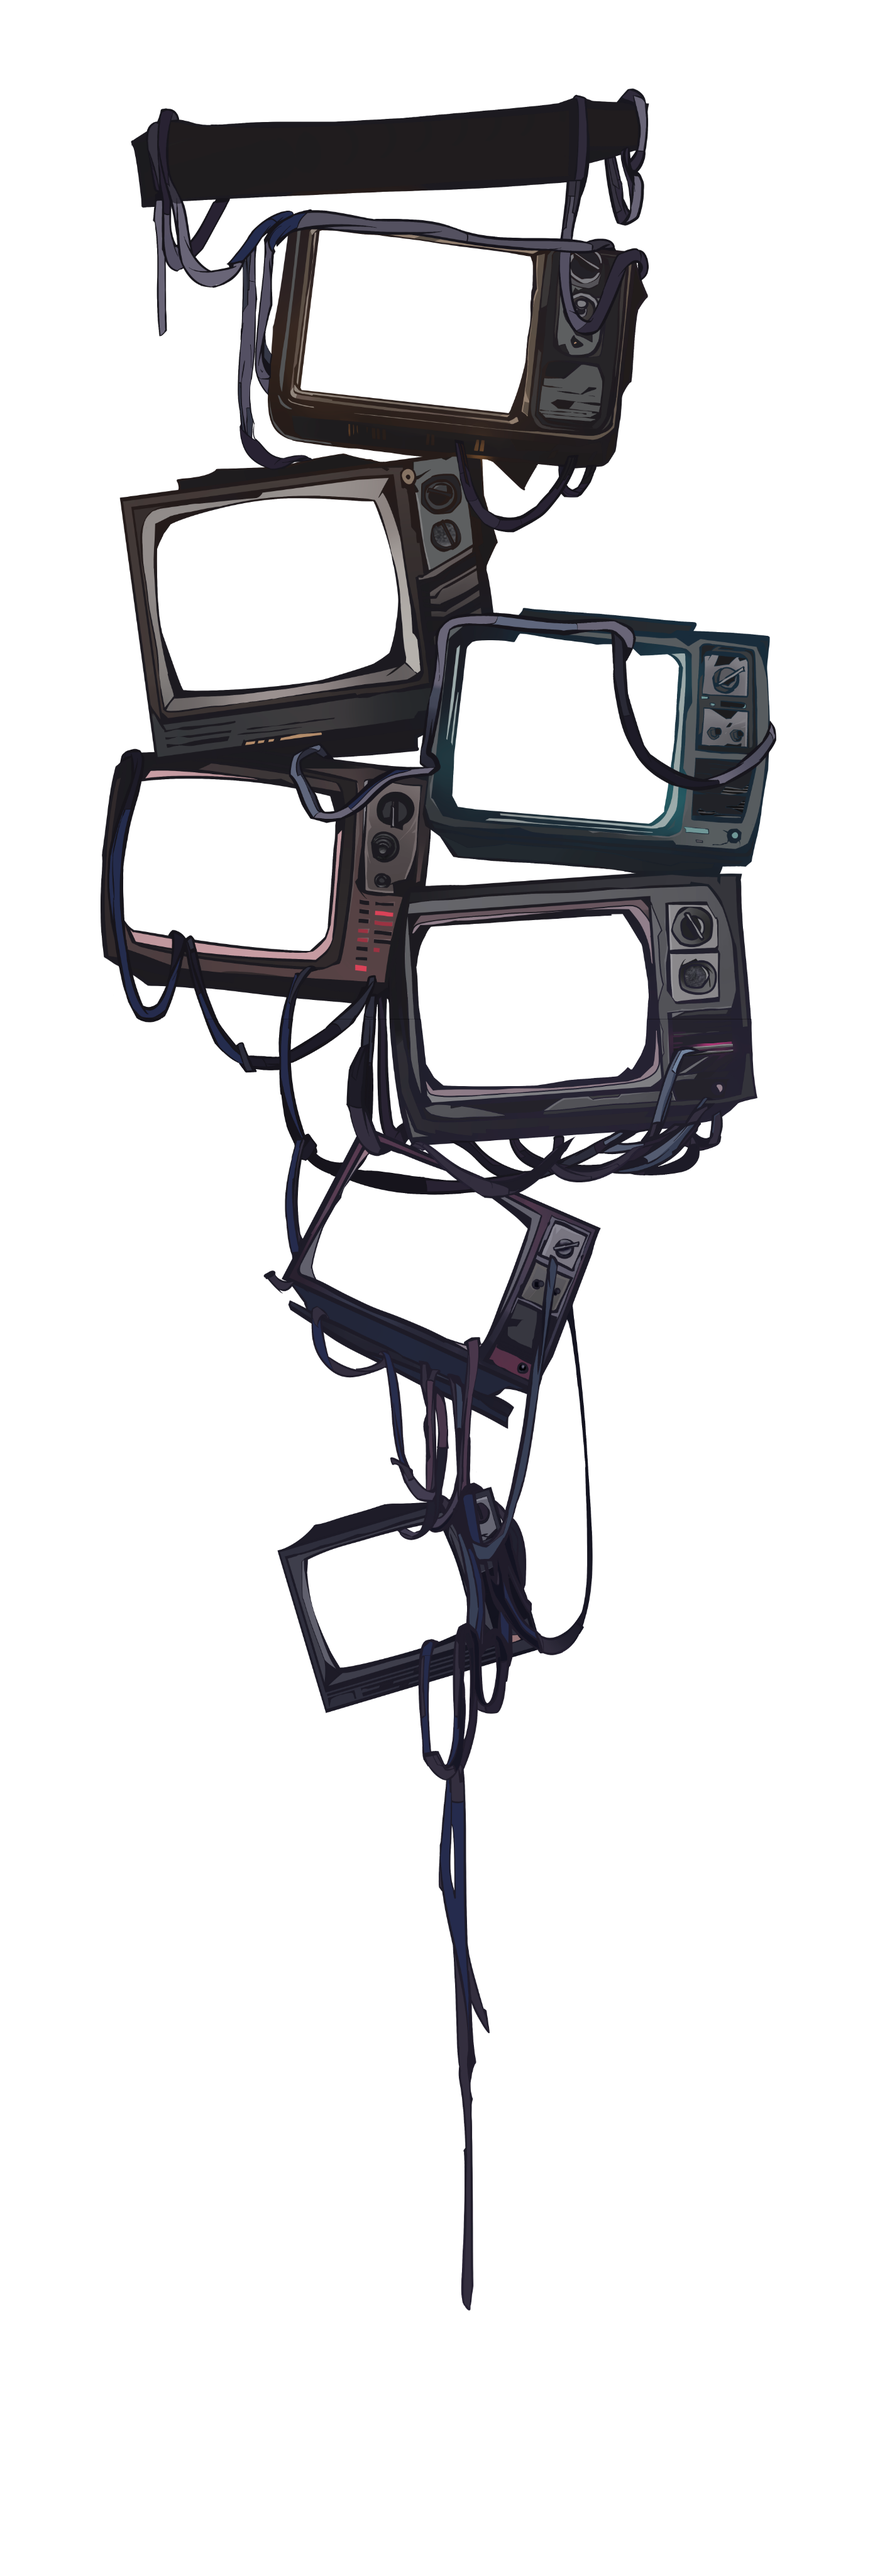
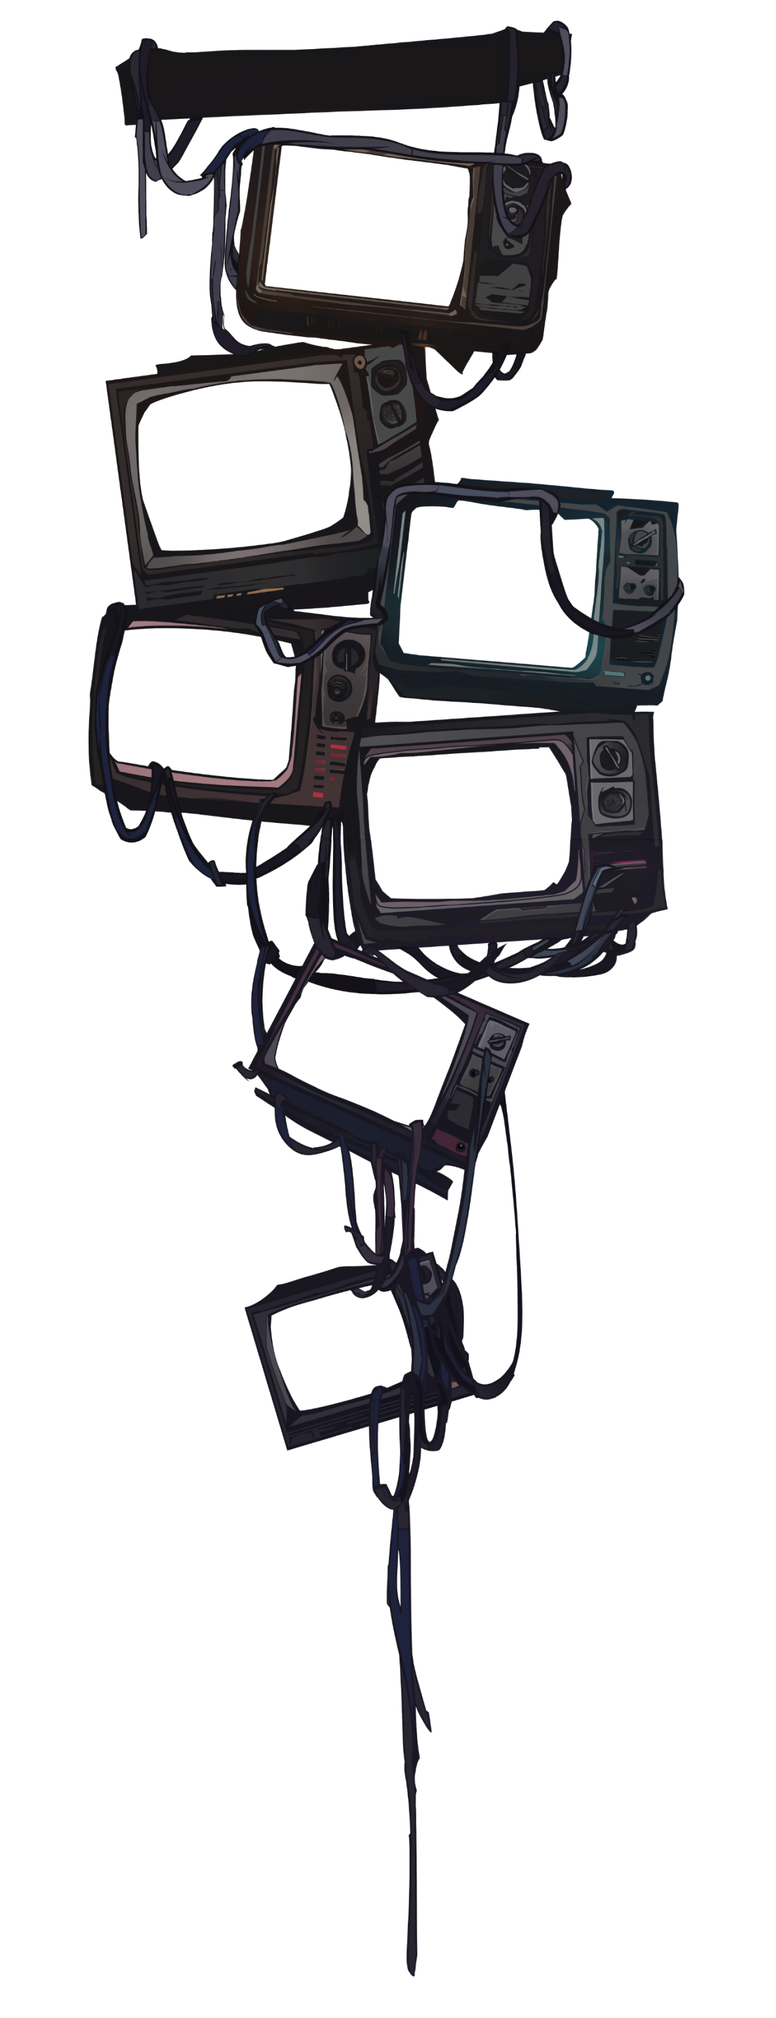
parka

Changed region(s): [[0.0923, 0.0, 0.8923, 0.9969]]

diff --git a/index.html b/index.html
@@ -353,7 +353,7 @@
             <img class="television_feature_six" src="img/television/1.png" alt="">
             <img class="television_feature_seven" src="img/television/1.png" alt="">
 
-            <img class="television_feature_name" src="img/television/heart.svg" alt="">
+            <img class="television_feature_name" src="img/television/GarageNeon.gif" alt="">
 
             <img class="television_feature_main" src="img/television/tele.png" alt="">
 
@@ -402,10 +402,32 @@
 
                   <div class="blog_content_item_content_text">
                     <div class="blog_content_item_content_text_visible">
-                      <p>Starting up as Indie Devs is scary business, and we never thought when we started Gripper we’d have the support of @EpicGames</p>
+                      <p>Game Development Progress</p>
                     </div>
                     <div class="blog_content_item_content_text_hidden">
-                      <p>Lorem ipsum dolor sit amet consectetur adipisicing elit. Odio ipsa facere necessitatibus, quidem tenetur dolor animi repellat commodi deserunt veniam rem magnam asperiores debitis aperiam natus, deleniti blanditiis doloremque porro! Maiores, blanditiis consequuntur temporibus rem voluptas quo totam dolore, cupiditate dolorem atque enim similique, nihil iure illo odit officia provident velit et? Doloremque magnam a cum ipsum praesentium accusamus architecto numquam officiis veniam, vitae error, necessitatibus, dolorum voluptas corrupti culpa quod eveniet laborum tempora. Veniam, quibusdam? At, repellendus deleniti? Tempore quod error eos ratione libero molestiae, adipisci beatae consequuntur iure aliquid harum, distinctio perspiciatis ex? Voluptatem ut saepe unde illo!</p>
+                      <p>Lots of headway has been made within the team, with some exciting updates. Some I can share now, some you’ll have to wait and see!</p>
+                      <p>We’ve been busy making sure we have the bare bones of all the arenas and tunnels, so later on we can focus on polish and making them all shiny. This has included making sure all the decorative objects are added, as well as interactable ones. VFX, lighting and shading has also been added, with textures being played around with and voted on within the team’s Discord server.</p>
+                      <p>Making sure there’s collision has also been on the task list, as we don’t want players riding through objects that are meant to be a challenge to navigate. Within the tunnels we had placeholder objects that had yet to be sculpted, but progress has been made turning our flying rectangles into threatening daggers. Check out the before and after video on Twitter: https://twitter.com/Gripper_action/status/1565757698242740230?s=20&t=nEzk1LaSH-iyVXnEscjfZQ</p>
+                      <img src="img/steam/1.png" alt="">
+                      <p>Physics has also been a topic of discussion, with ideas circulating around interactions between different elements (such as heat evaporating water). It’s too early to definitively say if this will make it into the final build, but we’re all about creating the best environments and atmosphere’s we can - only time will tell!</p>
+                      <img src="img/steam/2.png" alt="">
+                      <p>Boss concept art has been created so the team has a reference for the final boss models. These models have also been created for the most part, and are being added into their arena’s. We’ve been starting to animate models to ensure they don’t look stiff and clunky, with the main protagonist seeing some improvements. In the words of one of our artists,</p>
+                      <p>“None became the proud owner of controlled knees and elbows”.</p>
+                      <p>Movement and combat design are all in the works, to try and make the fights feel as epic as possible. We’ve changed and updated textures for certain objects like the bike, making the wheels and windshield reflective rather than matte.</p>
+                      <img src="img/steam/3.jpg" alt="">
+                      <p>Updates to characters have also been done, with multiple characters starting to come to life. Narrative has started to be written, with character artwork being updated to show different expressions and personality during dialogue scenes, as well as during gameplay. Designing new and interesting characters is a challenge as there are so many great characters out in the gaming world, but the team have dug into the world and the story to try and achieve engaging persona’s.</p>
+                      <img src="img/steam/4.jpg" alt="">
+                      <img src="img/steam/5.png" alt="">
+                      <p>The team have been working on UI, and have added in a controls menu to make sure players can readily check what the inputs are. Whilst quick time events have already been implemented, refining QTE’s in terms of their timing has been done. It’s important for the timings of our QTE’s to feel fluid, and adjusting timings around whether a button press will be a success or a failure has been fiddled with to get this right.</p>
+                      <img src="img/steam/6.png" alt="">
+                      <p>Continued QA tests have allowed us to find bugs within the main build and the dem- oh phew, nearly let that one slip! As is the nature of game development, we’ve managed to find and fix issues found within cinematics, boss fights and audio. As more gets added into the game there’s more chance of bugs popping up, but we’re confident in getting these smoothed out before launch.</p>
+                      <h4>Gamescom 2022</h4>
+                      <p>We were fortunate enough to have a booth at Gamescom this year, where we were found in the Indie Booth Arena. It was both exciting and daunting, but we had the best time talking to players, devs and press alike. We loved being able to see your reactions to playing the game for the first time, and really understanding what it is that you’re all excited about for when Gripper releases.</p>
+                      <p>Creating marketing art for the booth (both digitally, and printing posters and stickers), ensuring we had a playable build, setting up an online stream and all the admin behind-the-scenes stuff were just a few of the tasks we faced in making sure we had a successful time.</p>
+                      <img src="img/steam/7.jpg" alt="">
+                      <p>Going to a convention as big as Gamescom was a massive learning experience and we found you could never do enough preparation. It came with its struggles, but overall the experience was invaluable. The support and feedback we received was so welcomed by the team, and it was a kick into reality to see how far Gripper has come over the years. We couldn’t be prouder of the team for making it happen, but most of all we want to thank you - the players, both new and old to the community - for sticking with us and making this all possible. We can’t wait to share the game with you.</p>
+                      <p>Thanks for reading this far! We'll see you again in October with the next update!</p>
+                      <img src="img/steam/8.png" alt="">
                     </div>
                   </div>
                   <div class="blog_content_item_content_read">

diff --git a/css/style.css b/css/style.css
@@ -1682,7 +1682,7 @@ input:focus {
 .television_feature_one {
   position: absolute;
   left: 117px;
-  top: 100px;
+  top: 73px;
   width: 120px;
   -webkit-transform: rotate(7deg);
           transform: rotate(7deg);
@@ -1690,7 +1690,7 @@ input:focus {
 .television_feature_two {
   position: absolute;
   left: 56px;
-  top: 210px;
+  top: 184px;
   width: 120px;
   -webkit-transform: rotate(7deg);
   transform: rotate(-7deg);
@@ -1698,7 +1698,7 @@ input:focus {
 .television_feature_three {
   position: absolute;
   right: 63px;
-  top: 268px;
+  top: 242px;
   width: 120px;
   -webkit-transform: rotate(7deg);
   transform: rotate(5deg);
@@ -1706,7 +1706,7 @@ input:focus {
 .television_feature_four {
   position: absolute;
   left: 49px;
-  top: 323px;
+  top: 296px;
   width: 120px;
   -webkit-transform: rotate(7deg);
   transform: rotate(5deg);
@@ -1714,7 +1714,7 @@ input:focus {
 .television_feature_five {
   position: absolute;
   right: 77px;
-  top: 375px;
+  top: 351px;
   width: 120px;
   -webkit-transform: rotate(7deg);
   transform: rotate(-4deg);
@@ -1722,7 +1722,7 @@ input:focus {
 .television_feature_six {
   position: absolute;
   right: 131px;
-  top: 488px;
+  top: 462px;
   width: 100px;
   -webkit-transform: rotate(7deg);
   transform: rotate(27deg);
@@ -1730,27 +1730,22 @@ input:focus {
 .television_feature_seven {
   position: absolute;
   right: 151px;
-  bottom: 384px;
+  bottom: 295px;
   width: 80px;
   -webkit-transform: rotate(7deg);
   transform: rotate(-16deg);
 }
 .television_feature_name {
   position: absolute;
-  left: 124px;
-  top: 53px;
+  left: 121px;
+  top: 23px;
   z-index: 7;
-  width: 65px;
+  width: 67px;
 }
 .television_feature_main {
   width: 100%;
   position: relative;
   z-index: 3;
-}
-@media (min-width: 768px) {
-  .television {
-    padding: 0px 30px;
-  }
 }
 @media (min-width: 1200px) {
   .television {
@@ -1776,54 +1771,54 @@ input:focus {
   }
   .television_feature_name {
     left: 340px;
-    top: 148px;
-    width: auto;
+    top: 66px;
+    width: 194px;
   }
   .television_feature_one {
     left: 349px;
-    top: 300px;
+    top: 226px;
     width: 300px;
     -webkit-transform: rotate(7deg);
             transform: rotate(7deg);
   }
   .television_feature_two {
     left: 173px;
-    top: 623px;
+    top: 543px;
     width: 300px;
     -webkit-transform: rotate(-7deg);
             transform: rotate(-7deg);
   }
   .television_feature_three {
     right: 183px;
-    top: 786px;
+    top: 706px;
     width: 320px;
     -webkit-transform: rotate(5deg);
             transform: rotate(5deg);
   }
   .television_feature_four {
     left: 135px;
-    top: 947px;
+    top: 867px;
     width: 280px;
     -webkit-transform: rotate(9deg);
             transform: rotate(9deg);
   }
   .television_feature_five {
     right: 234px;
-    top: 1093px;
+    top: 1013px;
     width: 320px;
     -webkit-transform: rotate(-4deg);
             transform: rotate(-4deg);
   }
   .television_feature_six {
     right: 405px;
-    top: 1419px;
+    top: 1335px;
     width: 250px;
     -webkit-transform: rotate(27deg);
             transform: rotate(27deg);
   }
   .television_feature_seven {
     right: 436px;
-    bottom: 1100px;
+    bottom: 841px;
     width: 250px;
     -webkit-transform: rotate(-16deg);
             transform: rotate(-16deg);
@@ -1901,12 +1896,24 @@ input:focus {
   -webkit-transition: all 0.3s linear;
   transition: all 0.3s linear;
 }
+.blog_content_item_content_text_hidden h4 {
+  font-family: "Electrolize", sans-serif;
+  font-weight: 700;
+  font-size: 18px;
+  line-height: 24px;
+  text-transform: uppercase;
+  color: #FFFFFF;
+}
 .blog_content_item_content_text_hidden p {
   font-family: "Electrolize", sans-serif;
   font-weight: 400;
   font-size: 14px;
   line-height: 17px;
   color: #FFFFFF;
+  margin: 20px 0px;
+}
+.blog_content_item_content_text_hidden img {
+  width: 100%;
 }
 .blog_content_item_content_arrow img {
   width: 24px;
@@ -1943,7 +1950,7 @@ input:focus {
   color: #FFFFFF;
 }
 .blog_content_item.active .blog_content_item_content_text_hidden {
-  max-height: 1000px;
+  max-height: 3000px;
   -webkit-transition: all 0.3s linear;
   transition: all 0.3s linear;
 }
